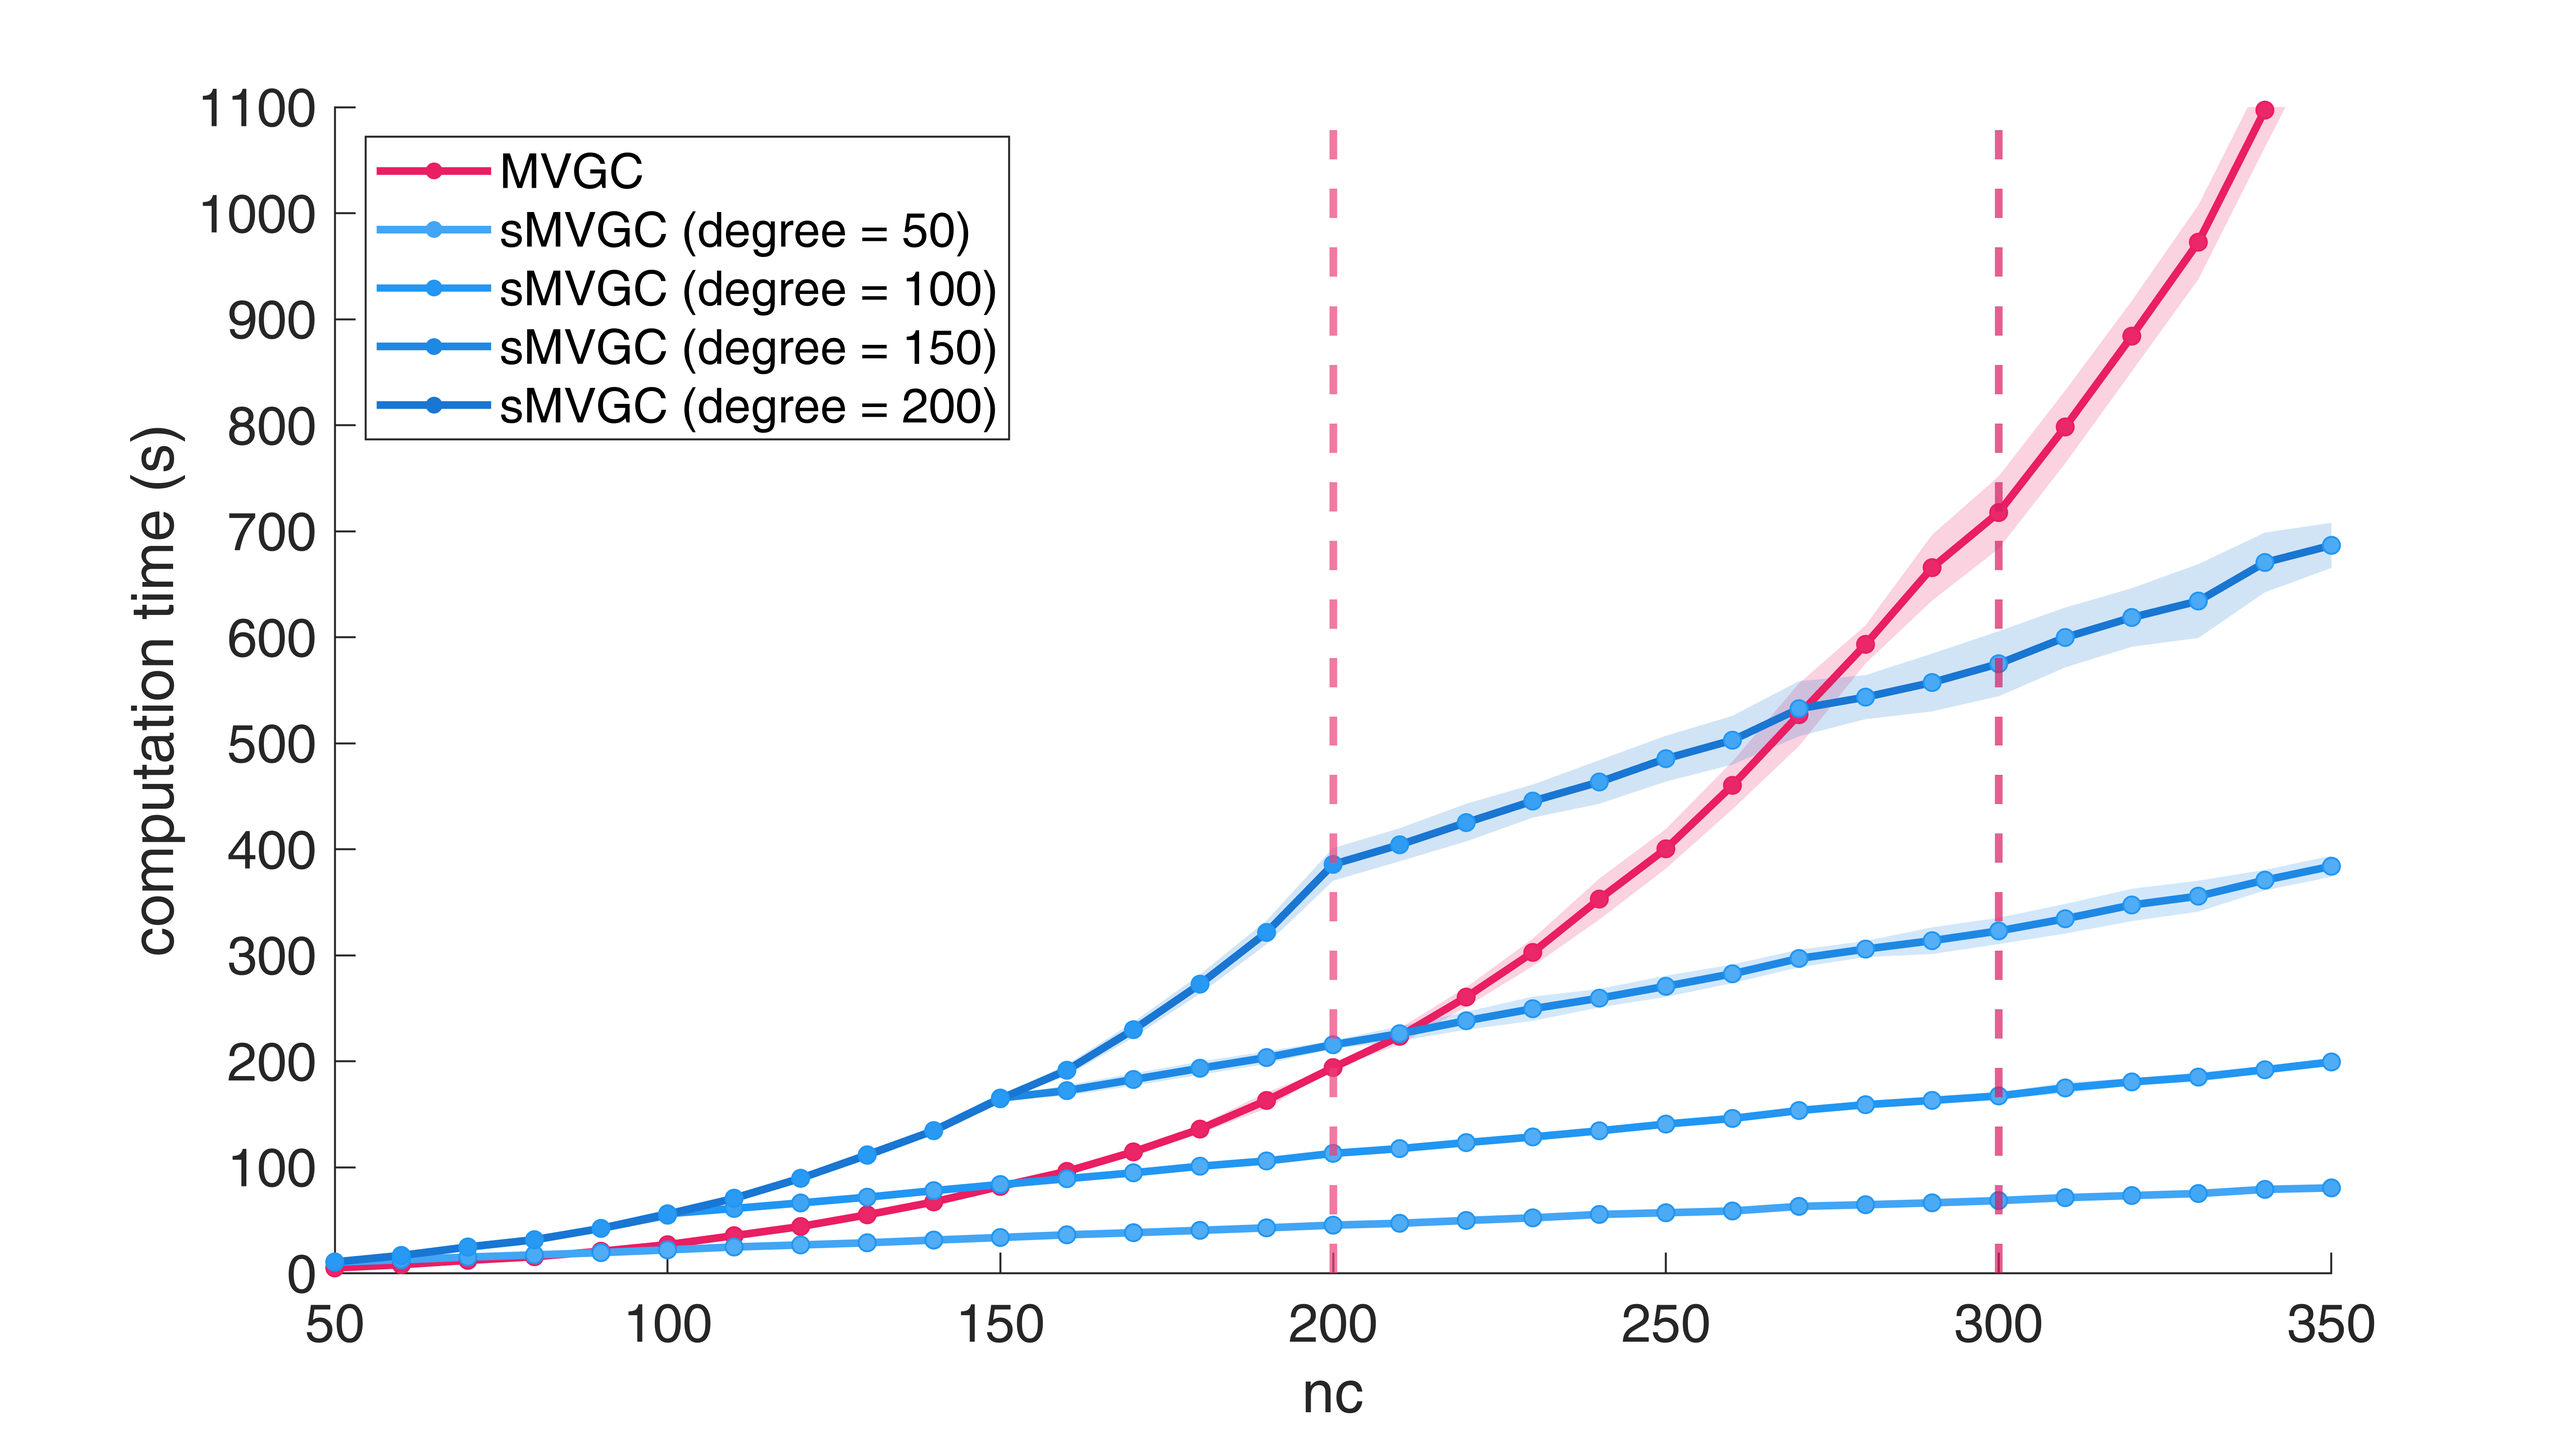
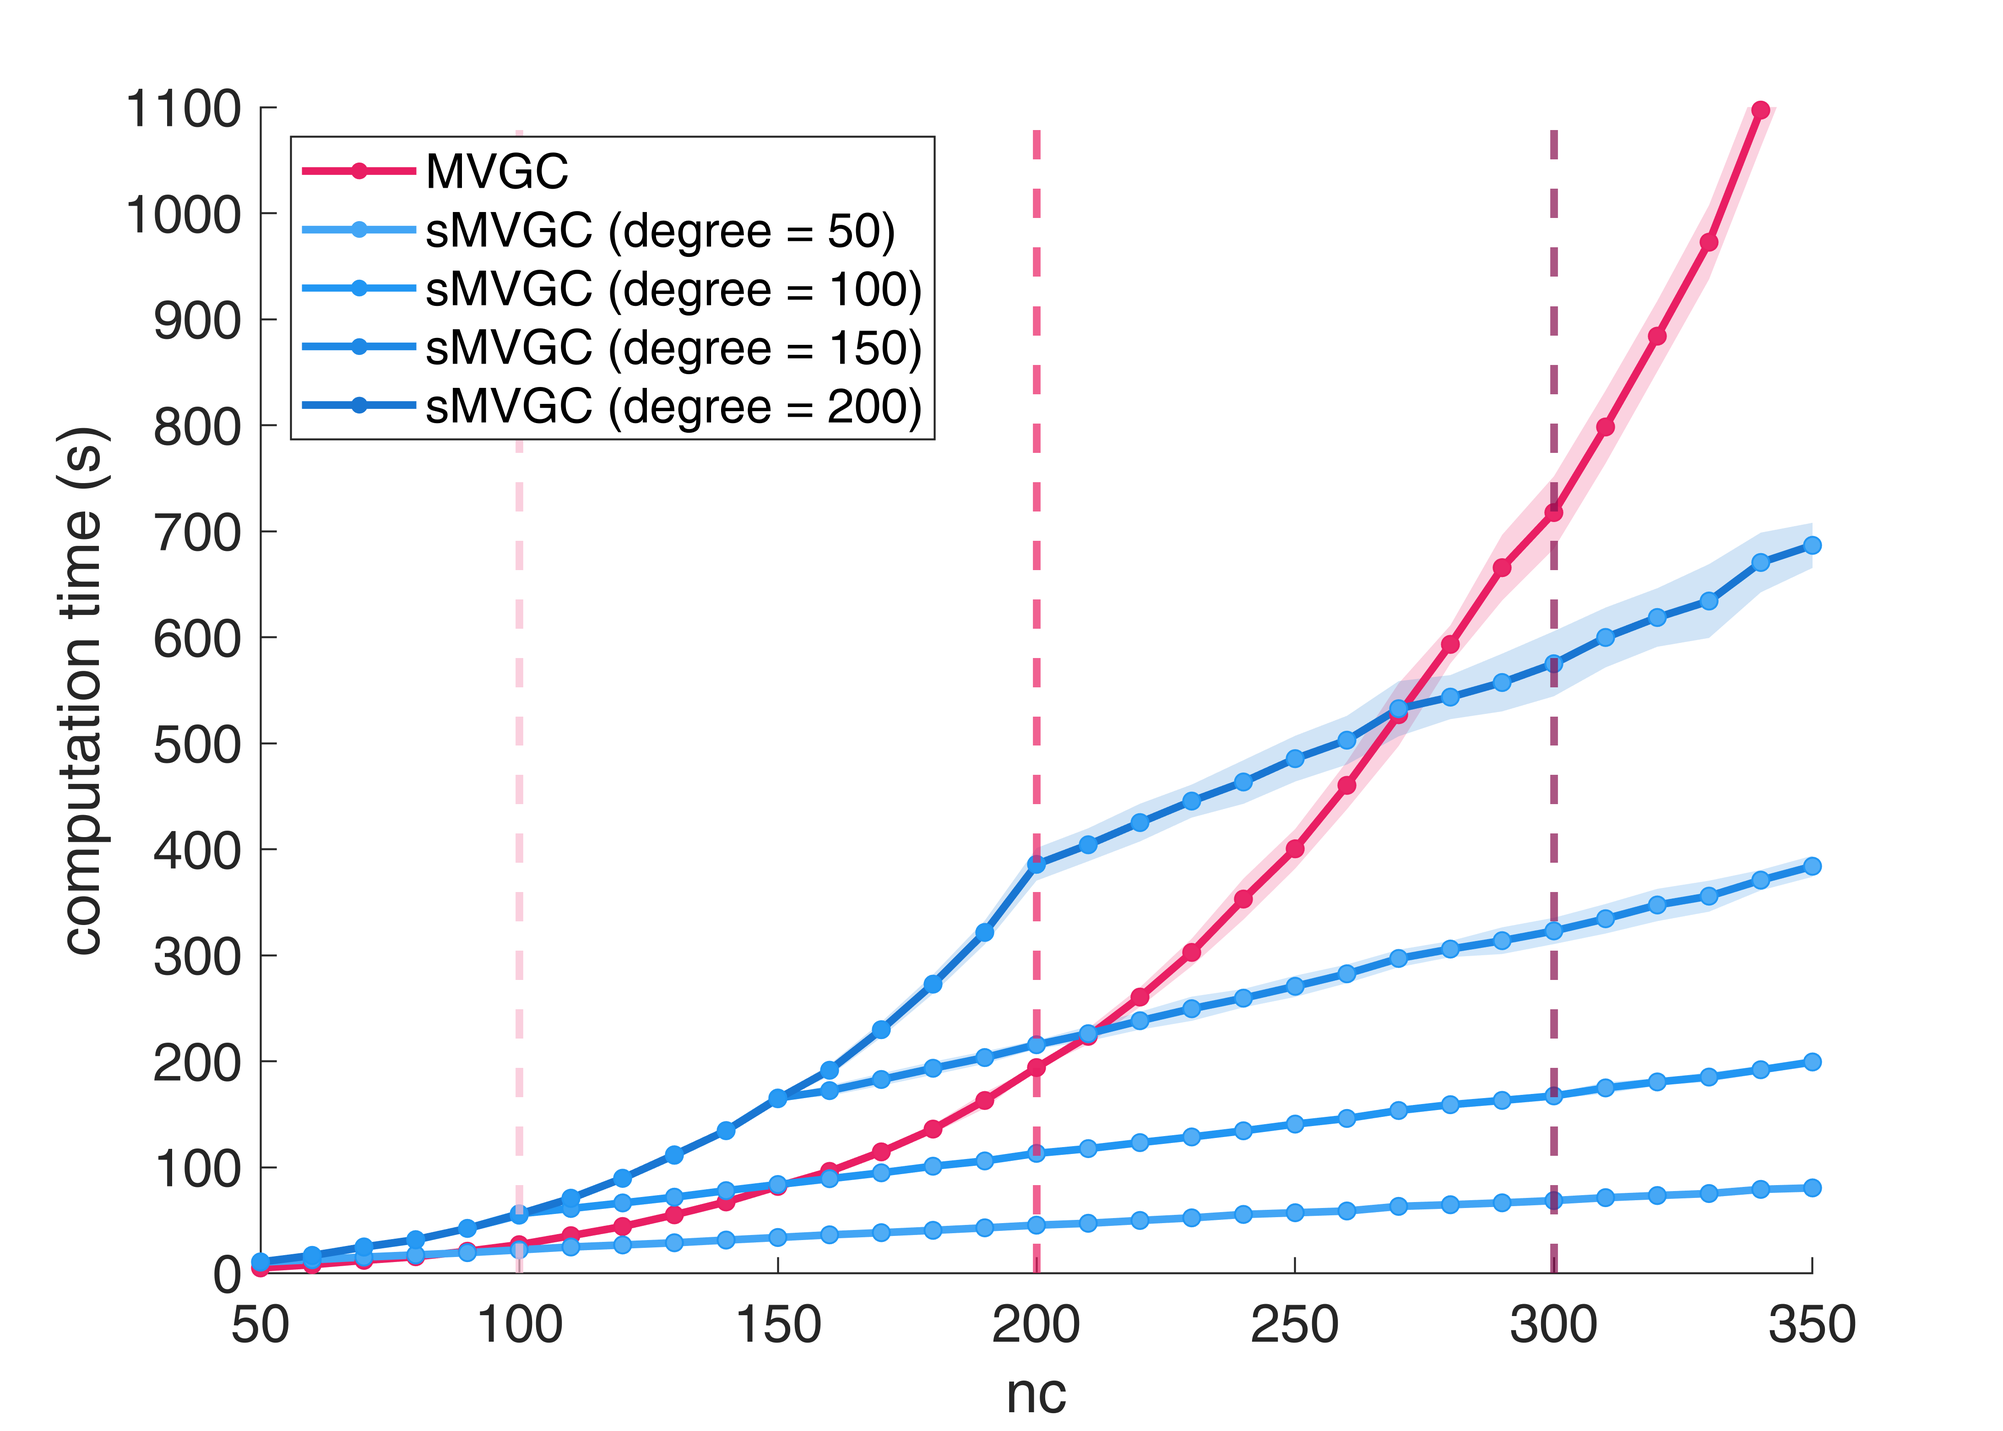
Figure 7 rework

diff --git a/run_data_processing.m b/run_data_processing.m
@@ -2722,7 +2722,7 @@ f1s_avg = squeeze(mean(f1s, 3, "omitnan"));
 % Display
 f = figure();
 ax = gca(f);
-fig_width = 800;
+fig_width = 600;
 fig_height = 400;
 
 % Printing params
@@ -2756,8 +2756,9 @@ for pid = 1 : length(prior_degrees)
 end
 
 % Link to fig7b %
-xline(200, "LineStyle", "--",  'HandleVisibility', 'off', "LineWidth", 2, "Color", get_colors("pink", 400));
-xline(300, "LineStyle", "--",  'HandleVisibility', 'off', "LineWidth", 2, "Color", get_colors("pink", 600));
+xline(100, "LineStyle", "--",  'HandleVisibility', 'off', "LineWidth", 2, "Color", get_colors("pink", 100));
+xline(200, "LineStyle", "--",  'HandleVisibility', 'off', "LineWidth", 2, "Color", get_colors("pink", 500));
+xline(300, "LineStyle", "--",  'HandleVisibility', 'off', "LineWidth", 2, "Color", get_colors("pink", 900));
 
 % Limits
 ylim([0, 1100]);
@@ -2780,7 +2781,7 @@ ns = 10000;
 order = 10;
 external_noise = 0.0;
 
-ncs = [200, 300, 400];
+ncs = [100, 200, 300];
 prior_degrees = 5:10:400;
 
 threshold_runtime = 1200;
@@ -2865,7 +2866,7 @@ save(sprintf("%s/external_noise.mat", save_path), 'external_noise', '-v7.3');
 %%% Display %%%
 f = figure();
 ax = gca(f);
-fig_width = 800;
+fig_width = 600;
 fig_height = 400;
 
 % Printing params
@@ -2893,8 +2894,7 @@ end
 
 for cid = 1 : length(ncs)
     if ncs(cid) < 400
-        h = yline(mean(mvgc_results(cid).runtime), "LineStyle", "--",  'DisplayName', sprintf("MVGC (nc = %d)", ncs(cid)), "LineWidth", 2, "Color", get_colors("pink", 100 + (300 * cid)));
-        uistack(h, 'bottom');
+        h = yline(mean(mvgc_results(cid).runtime), "LineStyle", "--",  'DisplayName', sprintf("MVGC (nc = %d)", ncs(cid)), "LineWidth", 2, "Color", get_colors("pink", 100 + (400 * (cid - 1))));
     end
 end
 
